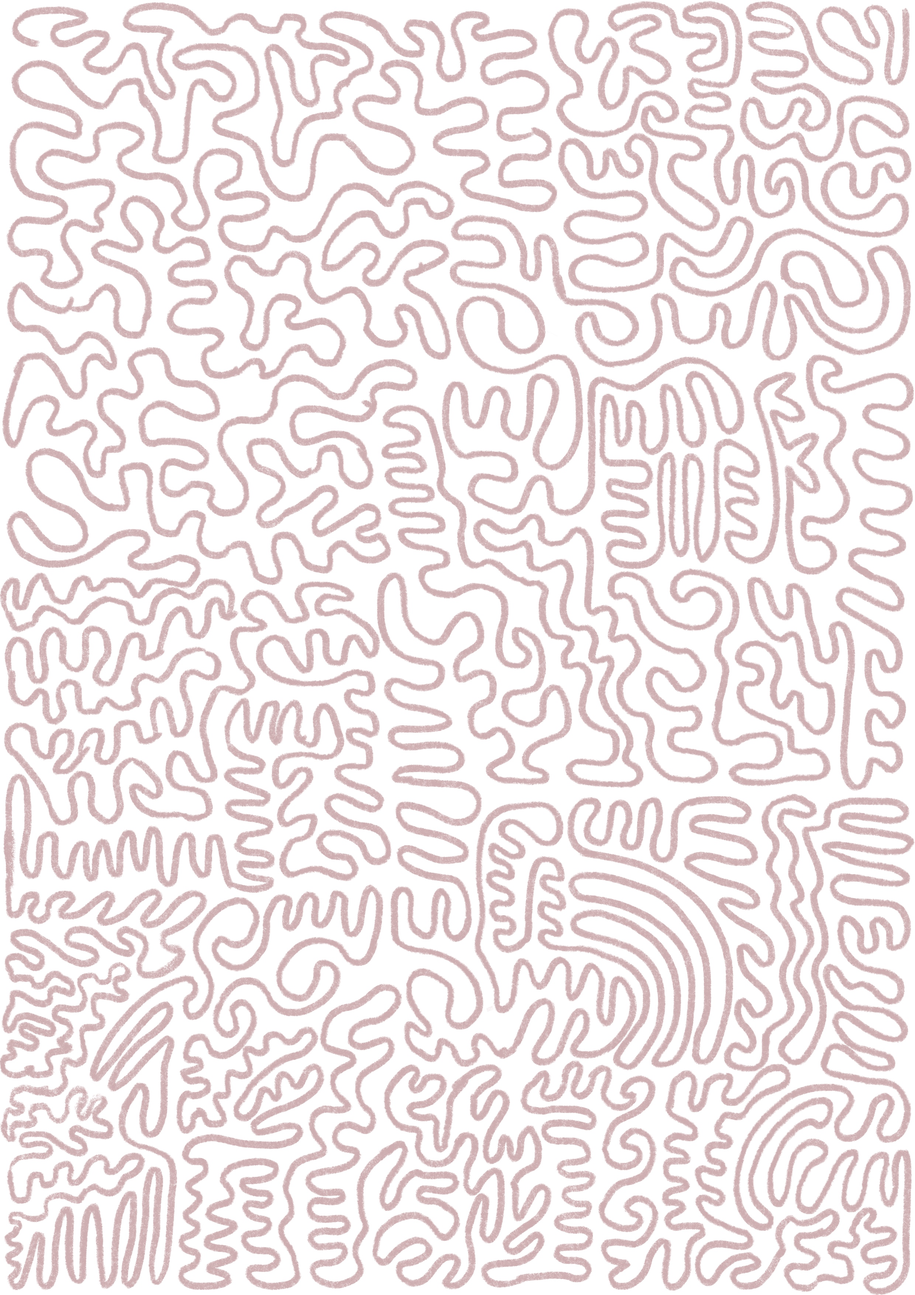
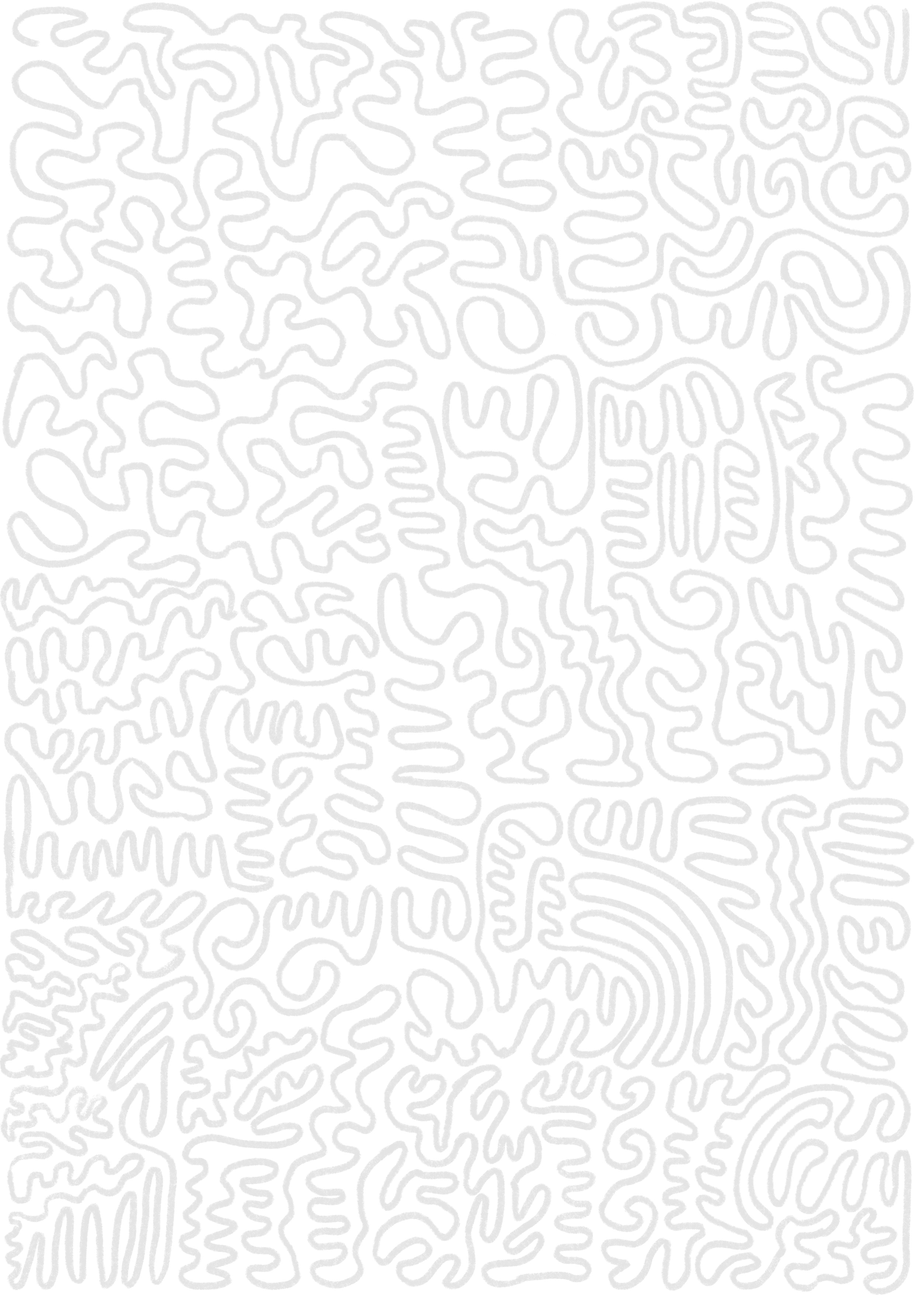
making album covers clickable

diff --git a/index.html b/index.html
@@ -1,15 +1,22 @@
 <!DOCTYPE html><html>
   <head>
-    <title>The Menu</title>
+    <title>Tracklist</title>
     <link rel="stylesheet" href="style.css">
   </head>
   <body>
     <div id="description">
         <h1>Tracklist: My Favorite Albums</h1>
+        <p>Click on the album covers to stream!
+          <br>♡♡♡
+        </p>
     </div>
+    
  <div class="row">
-        <div class="column">
+     <div class="column back">
+      <a href="https://open.spotify.com/album/1BUb9ayIoyy6T3iwMscDts?si=QQhg3L9cQ5CZh8I7u0wveg">
     <img src="Si Ayer Fuera Hoy.jpg">
+     </a>
+
   
     <h1> Morat - Si Ayer Fuera Hoy</h1>
 <ul>
@@ -30,8 +37,10 @@
 
   
 </div>
-<div class="column" >
+<div class="column back" >
+  <a href="https://open.spotify.com/album/0DMDbZtZT028siJ0GEdLrQ?si=LzeY9ATQRvar2p0kD66RfA">
 <img src="TLDTED.jpg">
+</a>
 
 <h1>Latin Mafia - Todos Los Diaz Todo El Dia</h1>
 
@@ -49,9 +58,10 @@
     <li>Tengo mucho ruido - 3:21</li>
 </ul>
 </div>
-<div class="column">
+<div class="column back">
+  <a href="https://open.spotify.com/album/1pmNXkFZNpcup7LbUUlNIk?si=KEc1a4VFTpqfikFW3ui_Dg">
 <img src="Armagedon.jpg">
-
+</a>
 <h1>HUMBE - ARMAGEDON</h1>
 
 <ul>
@@ -72,63 +82,69 @@
 <p> </p>
 
 <div class="row">
-  <div class="column">
-<img src="Si Ayer Fuera Hoy.jpg">
-
-<h1> Morat - Si Ayer Fuera Hoy</h1>
+  <div class="column back">
+    <a href="https://open.spotify.com/album/5hIOd0FvjlgG4uLjXHkFWI?si=dzOLKPgXRHmKr6hakfvbiA">
+<img src="superache.jpg">
+</a>
+<h1> Conan Gray - Superache</h1>
 <ul>
-  <li>Llamada Perdida - 2:45 </li>
-  <li>Segundos Platos - 3:04</li>
-  <li>Salir con Vida - 2:56</li>
-  <li>Debi Suponerlo - 2:24</li>
-  <li>506 - 3:00</li>
-  <li>Santa Fe - 2:46</li>
-  <li>Nunca al Reves - 3:01</li>
-  <li>Si la Vez - 3:48</li>
-  <li>Las Cometas Siempre Vuelan en Agosto - 3:38</li>
-  <li>Valen Mas - 3:08</li>
-  <li>Paris - 3:02</li>
-  <li>_u_s__A__j_ - 0:13</li>
+  <li>Movies - 3:34</li>
+  <li>People Watching - 2:38</li>
+  <li>Disaster - 2:33</li>
+  <li>Best Friend - 2:28</li>
+  <li>Astronomy - 4:03</li>
+  <li>Yours - 3:24</li>
+  <li>Jigsaw - 3:28</li>
+  <li>Fammily Line - 3:36</li>
+  <li>Summer Child - 2:59</li>
+  <li>Footnote - 3:44</li>
+  <li>Memories - 4:08</li>
+  <li>The Exit - 3:41</li>
 </ul>
 
 
 
 </div>
-<div class="column" >
-<img src="TLDTED.jpg">
-
-<h1>Latin Mafia - Todos Los Diaz Todo El Dia</h1>
+<div class="column back" >
+  <a href="https://open.spotify.com/album/7kFyd5oyJdVX2pIi6P4iHE?si=rcMFspkITVayOD6tTGE64g">
+<img src="rosie.png">
+</a>
+<h1>ROSE - Rosie</h1>
 
 <ul>
-<li>Siento que merezco mas - 2:45</li>
-<li>Y como te digo que - 2:40</li>
-<li>Nunca he sido honesto - 2:56</li>
-<li>Me estoy cayendo - 2:51</li>
-<li>Sentado aqui - 2:42</li>
-<li>vivo si me sigues - 3:06</li>
-<li>Pero me estoy acabando - 2:46</li>
-<li>Que vamos a hacer? - 2:12</li>
-<li>Yo siempre contesto - 3:19</li>
-<li>Ven, - 2:27</li>
-<li>Tengo mucho ruido - 3:21</li>
+<li>number one girl - 3:36</li>
+<li>3am - 2:34</li>
+<li>two years - 2:47</li>
+<li>toxic till the end - 2:36</li>
+<li>drink or coffee - 2:13</li>
+<li>APT. - 2:49</li>
+<li>gameboy - 2:46</li>
+<li>stay a little longer - 4:06</li>
+<li>not the same - 3:04</li>
+<li>call it the end - 2:21</li>
+<li>too bad for us - 3:56</li>
+<li>dance all night - 3:34</li>
 </ul>
 </div>
-<div class="column">
-<img src="Armagedon.jpg">
-
-<h1>HUMBE - ARMAGEDON</h1>
+<div class="column back">
+  <a href="https://open.spotify.com/album/3qBWNcWifNhUKJAWzswdJY?si=jMijSG5pQIWvsee7ozl0Hw">
+<img src="season.jpg">
+</a>
+<h1>Noah Kahan - Stick Season (forever)</h1>
 
 <ul>
-<li>ASTROS - 3:35</li>
-<li>KINTSUGI - 3:57</li>
-<li>BANDERA - 2:44</li>
-<li>SAGITARIO A* - 3:45</li>
-<li>TINTO DE VERANO - 3:47</li>
-<li>LOOP - 3:49</li>
-<li>1960 - 6:10</li>
-<li>novatos - 2:28</li>
-<li>armagedon - 3:47</li>
-<li>bien hecho - 4:10</li>
+<li>Northern Attitude - 4:27</li>
+<li>Stick Season - 3:02</li>
+<li>All My Love - 4:11</li>
+<li>Everywhere, Everything - 4:17</li>
+<li>Homesick - 3:15</li>
+<li>The View Between Villages - 3:35</li>
+<li>Your Needs, My Needs - 3:27</li>
+<li>Dial Drunk - 3:33</li>
+<li>No Complaints - 3:25</li>
+<li>Call Your Mom - 4:38</li>
+<li>You're Gonna Go Far - 4:46</li>
+<li>and more</li>
 </ul>
 </div>
 </div>

diff --git a/style.css b/style.css
@@ -1,15 +1,17 @@
 
 body {
+background-image: url("scribble.JPG");
 background-color: #fcfcfc;
-background-image: url("scribbles.jpg");
 background-size: cover;
-color: rgb(103, 14, 14);
+color: rgb(138, 62, 62);
+
 }
 
 h1{
     font-family:"Chalkduster", "fantasy"; 
     text-align: center;
-    background-color: rgba(255, 255, 255, 0.468);
+     /* -webkit-text-stroke-width: 1px;
+      -webkit-text-stroke-color: rgb(68, 0, 0);*/
 }
 
 .column {
@@ -35,9 +37,20 @@ ul{
     list-style-type: none;
   margin: 0;
   padding: 0;
+  text-shadow: 4.0px 8.0px 8.0px hsl(0deg 0% 0% / 0.38);
 }
   
 #description{
     font-size: 30px;
+    p{
+      font-size: 20px;
+      text-align: center;
+    }
 }
 
+
+
+
+.back{
+  background-color: #fcfcfc76;
+}
